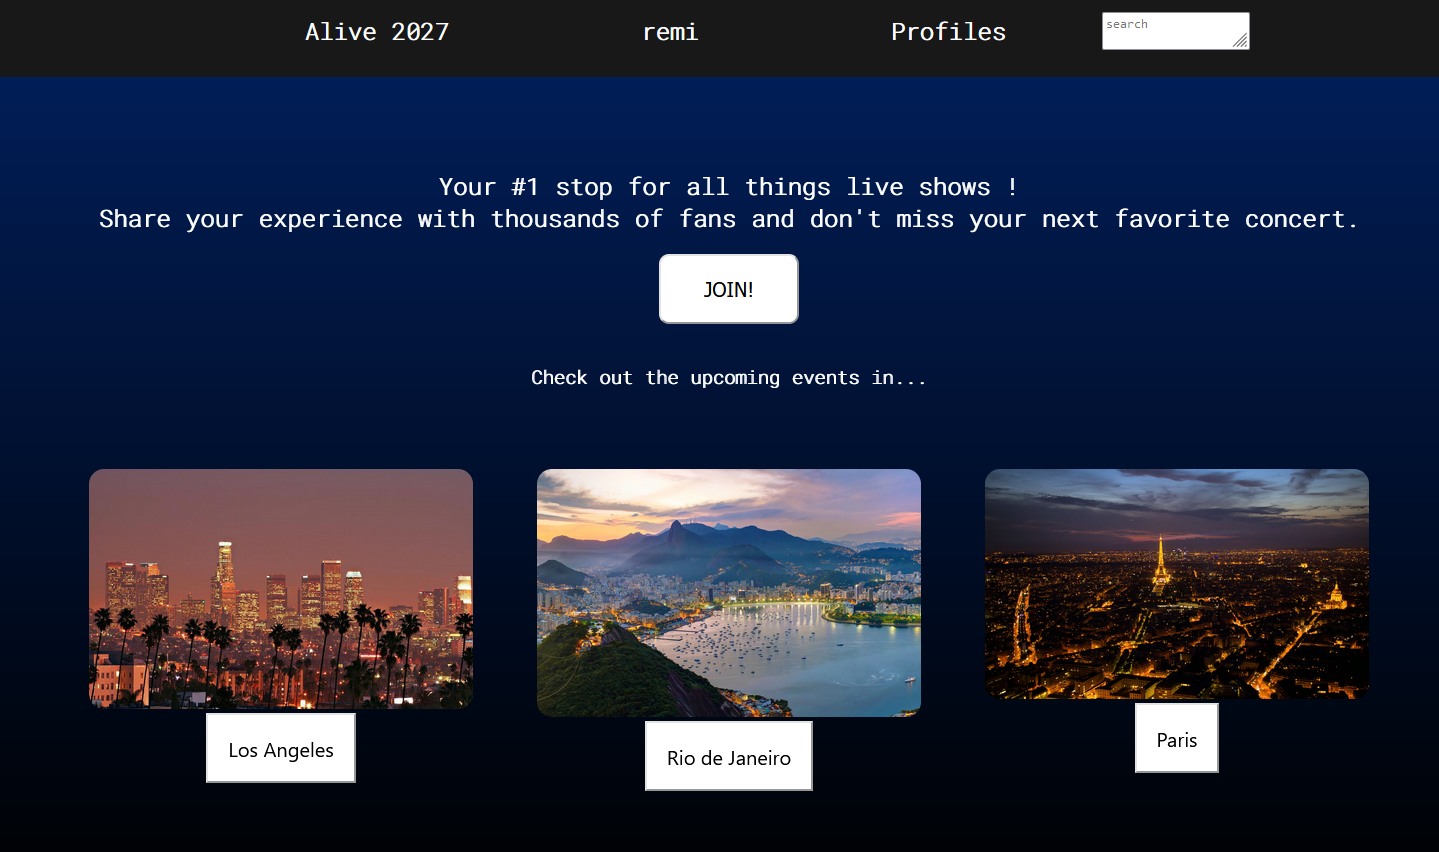
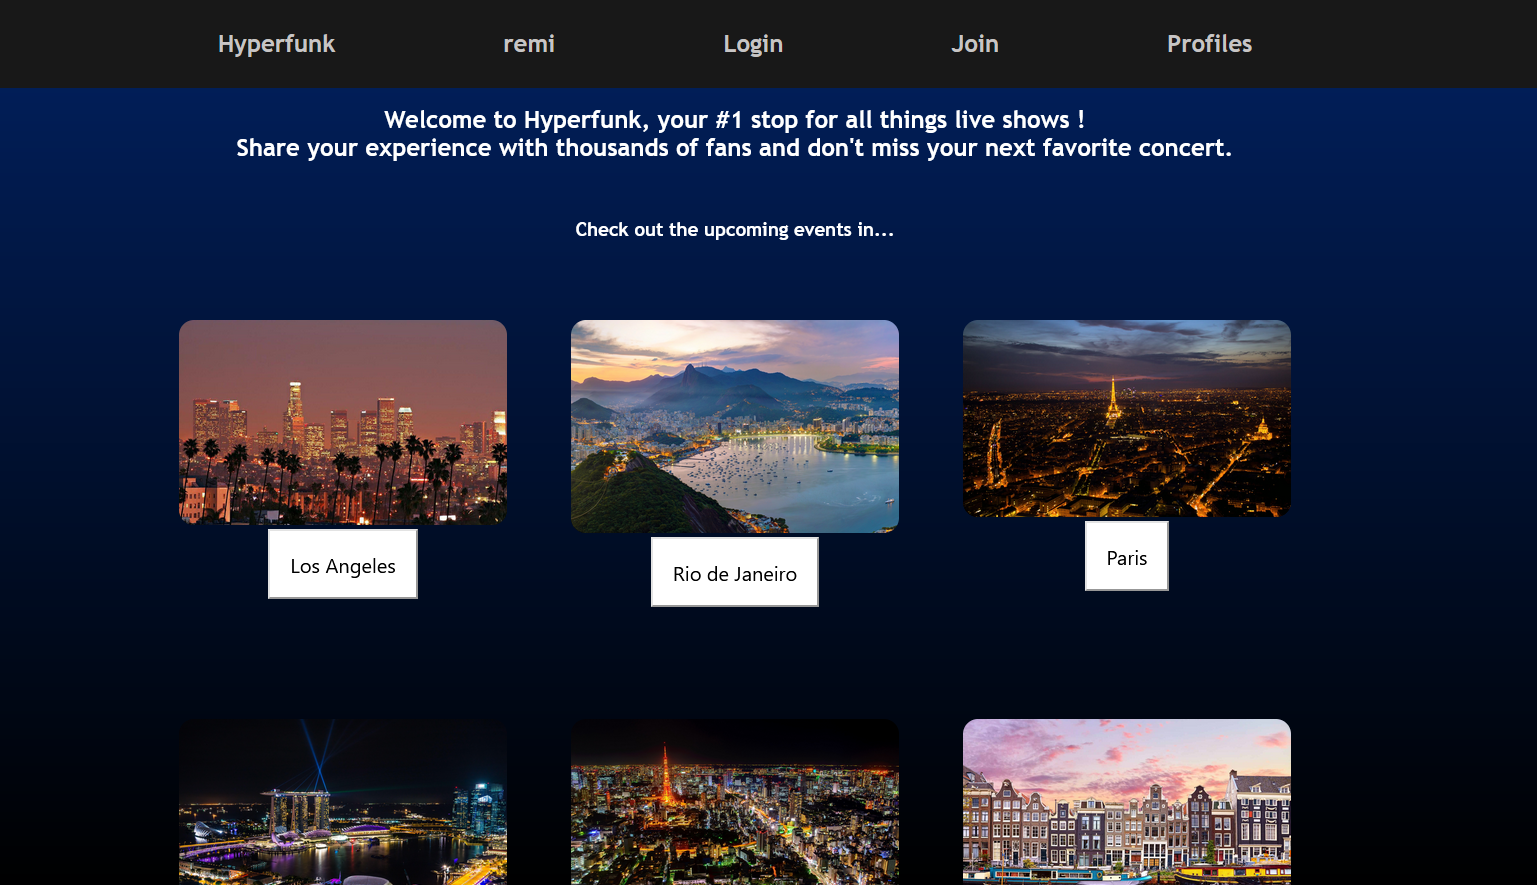
readme main image

diff --git a/index.html b/index.html
@@ -27,8 +27,8 @@
         <a class="element" href="../profilez/profilez.html">
             <h2>Profiles</h2>
         </a>
-        <label for="searchEngine"> </label>
-        <textarea placeholder="search"></textarea>
+        <!--<label for="searchEngine"> </label>
+        <textarea placeholder="search"></textarea> -->
     </header>
     <div class="main">
         <div class="left">
